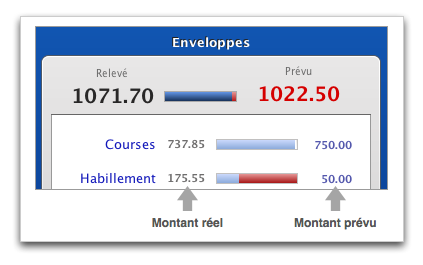
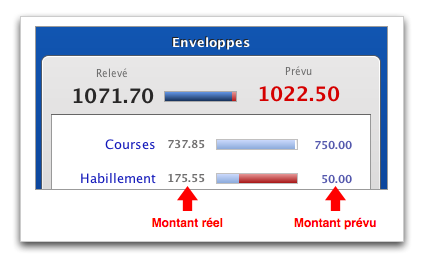
Amelioration du guidage (aide) dans BudgetView

Changed region(s): [[0.6761, 0.6943, 0.8913, 0.8755], [0.3381, 0.6943, 0.5532, 0.8755]]

diff --git a/picsou/picsou/src/main/resources/help/fr/card_budget.html b/picsou/picsou/src/main/resources/help/fr/card_budget.html
@@ -1,30 +1,70 @@
 <html>
 <body>
 
-<p>La vue <b>Budget</b> présente le détail des différents <a href="help:budgetAreas">postes budgétaires</a>
-  qui constituent votre budget.</p>
-<p>C'est dans cette vue que vous <a href="help:budgetTuning">affinez la définition de votre budget</a>
-  et que vous le pilotez chaque mois.</p>
+<p>La vue <b>Budget</b> présente l'état de toutes vos séries&nbsp;:</p>
 
 <div class="centered">
-  <img src="help/budget_screen.png">
+  <img src="help/fr/budget_depassements.png">
 </div>
 
-<p>Pour chaque poste budgétaire, CashPilot vous indique quelle somme a été relevée au total pour le mois
-  sélectionné, et quelle somme totale est prévue.</p>
+<p>Une fois vos opérations <a href="help:import">importées</a> et
+  <a href="help:categorization">catégorisées</a>, vous utilisez cette vue pour régler vos séries en suivant
+  les indications ci-dessous&nbsp;:</p>
 
-<p>Le centre de chaque bloc donne le détail des séries du poste budgétaire. Le chiffre affiché à gauche de la jauge
-  représente le montant réellement observé, tandis que celui de droite représente le montant prévu pour le mois
-  en cours. Pour modifier le ce montant prévu, vous devez éditer la série elle-même en cliquant sur son nom. Si
-  cette série est en mode "budget automatique", vous pouvez activer le "mode manuel" pour saisir vous-même
-  les montants attendus.</p>
+<h2>Comprenez votre balance et votre solde de fin de mois</h2>
 
-<p>Au bas de chaque bloc, le bouton "+" vous permet de créer une nouvelle série, tandis que le bouton "liste"
-  vous permet d'éditer la liste complète des séries du poste budgétaire&nbsp;-y compris celles qui ne sont pas
-  visibles dans le mois sélectionné.</p>
+<p>Il s'agit de vos deux indicateurs principaux pour régler votre budget.
+  Cliquez sur le bouton "loupe" pour accéder au détail de ces indicateurs&nbsp;:</p>
 
-<p style="text-align:right;font-size:9pt;margin-top:10px;">Revenir à la
-  <a href="help:interface">présentation de l'interface</a></p>
+<div class="centered">
+  <img src="help/fr/budget_details.png">
+</div>
+
+
+<h2>Réglez les montants attendus pour vos séries</h2>
+
+<p>Cliquez sur les montants prévus pour les ajuster&nbsp;:</p>
+
+<div class="centered">
+  <img src="help/fr/budget_reglage_montants.png">
+</div>
+
+
+<h2>Réglez les périodicités des séries</h2>
+
+<p>Certaines séries ont des periodicités différentes des périodicités mensuelles classiques - par exemple un paiement
+  de factures d'électricité qui survient tous les deux mois. Là encore, vous pouvez les éditer pour choisir la
+  périodicité adaptée&nbsp;:</p>
+<div class="centered">
+  <img src="help/fr/budget_reglage_periodicite.png">
+</div>
+
+
+<h2>Créez les séries "extra"</h2>
+
+<p>Enfin, vous devez créer des séries dans le poste budgétaire "<b>Extra</b>" pour représenter les dépenses
+  particulières qui vont marquer le budget de ce mois&nbsp;: achats importants, réparations, voyages, etc.</p>
+<p>Vous utilisez aussi les séries "Extra" pour anticiper vos projets dans le futur&nbsp;:</p>
+<div class="centered">
+  <img src="help/fr/budget_creation_projets.png">
+</div>
+
+
+<h2>Décalez des opérations</h2>
+
+<p>Il se peut que votre budget soit faussé par le fait qu'une opération importante ait été comptabilisée au mois
+  précédent ou suivant celui où vous l'attendiez.</p>
+<p>Le cas typique concerne les salaires, avec par exemple le salaire du mois de mai qui arrive au 1er juin,
+  et celui du mois de juin qui arrive au 31 mai. Dans cette configuration, le budget de mai ne comporte aucun
+  salaire tandis que celui de juin en comporte deux.</p>
+<p>Pour corriger cette situation, vous devez vous rendre dans la vue
+  <a href="help:card_categorization">Catégorisation</a>, retrouver l'opération en question, et la décaler au bon
+  mois en cliquant sur le bouton "Décaler".</p>
+
+<h2>Préparez les mois suivants</h2>
+
+<p>Une fois vos séries correctement réglées, vous pouvez repéter l'opération pour les mois suivants de manière à vous
+  anticiper votre budget et préparer vos projets pour les mois à venir.</p>
 
 </body>
 </html>

diff --git a/picsou/picsou/src/main/resources/help/fr/index.html b/picsou/picsou/src/main/resources/help/fr/index.html
@@ -12,7 +12,6 @@
       <ul>
         <li><a href="help:intro">Présentation de l'outil</a></li>
         <li><a href="help:usageOverview">Principes d'utilisation</a></li>
-        <li><a href="help:budgetTuning">Réglage de votre budget</a></li>
       </ul>
 
       <h2>Interface utilisateur</h2>

diff --git a/picsou/picsou/src/main/java/org/designup/picsou/gui/categorization/CategorizationView.java b/picsou/picsou/src/main/java/org/designup/picsou/gui/categorization/CategorizationView.java
@@ -432,7 +432,7 @@ public class CategorizationView extends View implements TableView, Filterable {
     private FieldValue[] forcedValues;
 
     public CreateSeriesAction(BudgetArea budgetArea, FieldValue... forcedValues) {
-      super(Lang.get("add"));
+      super(Lang.get("categorization.series.add"));
       this.budgetArea = budgetArea;
       this.forcedValues = forcedValues;
     }
